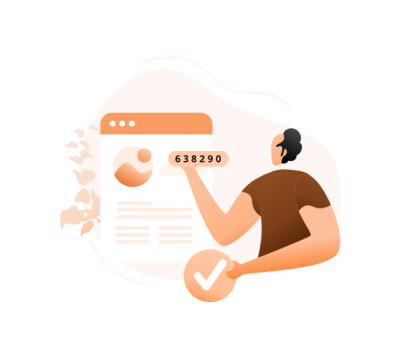
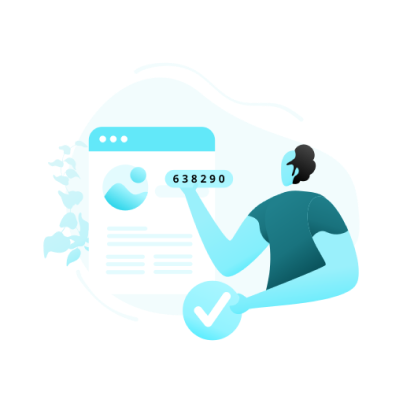
✨ feat: Responsive
Adding new way of responsiveness when visit web on some devices

Changed region(s): [[0.0898, 0.3073, 0.8978, 0.8603]]

diff --git a/src/views/OptionOTP.vue b/src/views/OptionOTP.vue
@@ -59,20 +59,20 @@ export default {
         </div>
         <!-- Right: Login Form -->
         <div class="flex flex-col lg:p-36 md:p-52 sm:20 p-8 w-full lg:w-1/2">
-            <img class="w-[120px] pb-20" src="../assets/Logo_elgeka.png" alt="Logo">
+            <img class="w-[120px] mb-20" src="../assets/LogoElgekaHijau.png" alt="Logo">
             <h1 class="text-2xl font-bold font-[verdana] text-[32px] mb-4">Pilih Metode OTP yang diinginkan</h1>
             <img src="../assets/OTP-security.png" class="max-w-[400px] max-h-[360px]" alt="OTP Ilustration">
             <!-- Email Input -->
             <div class="my-8 flex flex-col gap-4">
                 <p class="font-poppins text-base text-silvergray">OTP akan dikirim melalui Email</p>
                 <button @click="SendOtpEmail()"
-                    class="bg-orange text-white font-semibold rounded-md py-2 px-4 w-full max-w-[470px]">Kirim OTP
+                    class="bg-teal text-white font-semibold rounded-md py-2 px-4 w-full max-w-[470px]">Kirim OTP
                     Lewat Email</button>
 
                 <h1>Atau</h1>
                 <p class="font-poppins text-base text-silvergray">OTP akan dikirim melalui Whatsapp</p>
                 <button @click="SendOtpWhatsapp()"
-                    class="bg-orange text-white font-semibold rounded-md py-2 px-4 w-full max-w-[470px]">Kirim OTP
+                    class="bg-teal text-white font-semibold rounded-md py-2 px-4 w-full max-w-[470px]">Kirim OTP
                     Lewat Whatsapp</button>
             </div>
             <!-- Forgot Password Link -->

diff --git a/src/views/Donasi.vue b/src/views/Donasi.vue
@@ -27,14 +27,14 @@ export default {
 <template>
     <div class="overflow-y-hidden">
         <Navbar />
-        <div v-if="donasielgeka.currentPage === 1" class="flex flex-col justify-center items-center p-40 m-auto min-w-7/12">
-            <p class="font-poppins font-bold text-[40px] text-teal text-center">{{ donasielgeka.data.title }}</p>
+        <div v-if="donasielgeka.currentPage === 1" class="flex flex-col justify-center items-center pt-40 m-auto min-w-7/12">
+            <p class="font-poppins font-bold max-md:text-[30px] text-[40px] text-teal text-center">{{ donasielgeka.data.title }}</p>
             <img class="max-w-[314px] max-h-[283px] border-8 border-teal my-4" :src="gambar_url + donasielgeka.data.image_url" alt="Gambar QR"
                 srcset="">
             <a :href="donasielgeka.data.donate_link"
-                class="font-poppins font-bold text-[40px] text-center hover:underline mb-2" target="_blank">{{
+                class="font-poppins font-bold text-[40px] max-md:text-[30px] text-center hover:underline mb-2" target="_blank">{{
                     donasielgeka.data.donate_link }}</a>
-            <p v-html="donasielgeka.data.content" class="font-poppins font-normal w-[673px] text-[16px] text-[#000000B2]"></p>
+            <p v-html="donasielgeka.data.content" class="font-poppins font-normal max-w-[673px] md:w-[673px] max-md:px-8 max-md:text-[14px] text-[#000000B2]"></p>
 
 
         </div>

diff --git a/src/views/Akunsukses.vue b/src/views/Akunsukses.vue
@@ -16,14 +16,14 @@ export default {
         </div>
         <!-- Right: Login Form -->
         <div class="flex flex-col lg:p-36 md:p-52 sm:20 w-full lg:w-1/2">
-            <img class="w-[120px] bg-teal rounded-md mb-20" src="../assets/logoElgekaPutih1.png" alt="Logo">
+            <img class="w-[120px] mb-20" src="../assets/LogoElgekaHijau.png" alt="Logo">
             <div class="max-w-[470px]">
-                <h1 class="font-bold font-[verdana] text-[32px] mb-4">Akun Berhasil Dibuat!</h1>
-                <p class="font-poppins font-normal text-xl text-silvergray">Silahkan Login untuk melanjutkan</p>
+                <h1 class="font-bold font-[verdana] max-sm:text-center text-[32px] mb-4">Akun Berhasil Dibuat!</h1>
+                <p class="font-poppins font-normal max-sm:text-center text-xl text-silvergray">Silahkan Login untuk melanjutkan</p>
                 <div class="flex flex-col items-center my-20">
-                    <img src="../assets/success-logo.png" alt="success logo">
+                    <img src="../assets/SecurityLogo.png" alt="success logo">
                 </div>
-                <div class="flex flex-col">
+                <div class="flex flex-col items-center">
                     <a href="/login"><button type="submit"
                             class="bg-teal text-white font-semibold rounded-md py-2 px-4 w-full max-w-[470px]">Login
                             Sekarang</button></a>

diff --git a/src/views/SendOtpEmail.vue b/src/views/SendOtpEmail.vue
@@ -8,7 +8,7 @@
         </div>
         <!-- Right: Login Form -->
         <div class="flex flex-col lg:p-36 md:p-52 sm:20 p-8 w-full lg:w-1/2">
-            <img class="w-[120px] pb-20" src="../assets/Logo_elgeka.png" alt="Logo">
+            <img class="w-[120px] pb-20" src="../assets/LogoElgekaHijau.png" alt="Logo">
             <h1 class="text-2xl font-bold font-[verdana] text-[32px] mb-4">Masukan kode Autentikasi</h1>
             <p>Masukan 4 digit angka yang telah dikirimkan ke email</p>
             <form @submit.prevent="activateaccount">
@@ -23,7 +23,7 @@
                 <!-- Login Button -->
                 <div class="flex flex-col">
                     <button type="submit"
-                        class="bg-orange text-white font-semibold rounded-md py-2 px-4 w-full max-w-[470px]">Lanjutkan</button>
+                        class="bg-teal text-white font-semibold rounded-md py-2 px-4 w-full max-w-[470px]">Lanjutkan</button>
                 </div>
             </form>
             <button @click="SendOtpEmail"

diff --git a/src/views/Login.vue b/src/views/Login.vue
@@ -81,7 +81,8 @@ export default {
         </div>
         <!-- Right: Login Form -->
         <div class="flex flex-col lg:p-36 md:p-52 sm:20 p-8 w-full lg:w-1/2">
-            <img class="w-[120px] md:bg-teal rounded-md mb-20" src="../assets/logoElgekaPutih1.png" alt="Logo">
+            <img class="w-[120px] md:hidden rounded-md mb-20" src="../assets/logoElgekaPutih1.png" alt="Logo">
+            <img class="w-[120px] hidden md:block rounded-md mb-20" src="../assets/LogoElgekaHijau.png" alt="Logo">
             <h1 class="text-2xl text-white md:text-black font-bold font-[verdana] text-[32px] mb-4">Selamat Datang !</h1>
             <form @submit.prevent="login">
                 <!-- Email Input -->

diff --git a/src/views/Lupapassword.vue b/src/views/Lupapassword.vue
@@ -49,7 +49,7 @@ export default {
         </div>
         <!-- left: Forget Password Form -->
         <div class="flex flex-col lg:p-36 md:p-52 sm:20 p-8 w-full lg:w-1/2">
-            <img class="w-[120px] bg-teal rounded-md mb-20" src="../assets/logoElgekaPutih1.png" alt="Logo">
+            <img class="w-[120px] mb-20" src="../assets/LogoElgekaHijau.png" alt="Logo">
             <h1 class="text-2xl font-bold font-[verdana] text-[32px] mb-4">Buat Kata Sandi Baru</h1>
             <p class="font-poppins font-normal text-silvergray text-[14px] mb-8">Silahkan masukan email anda untuk menerima
                 kode verifikasi</p>

diff --git a/src/views/Register.vue b/src/views/Register.vue
@@ -140,7 +140,7 @@ export default {
             <img src="../assets/sign.png" alt="Placeholder Image" class="object-cover w-full h-full">
         </div>
         <div class="flex flex-col lg:p-36 md:p-52 sm:20 p-8 w-full lg:w-1/2">
-            <img class="w-[120px] bg-teal mb-20" src="../assets/logoElgekaPutih1.png" alt="Logo">
+            <img class="w-[120px] mb-20" src="../assets/LogoElgekaHijau.png" alt="Logo">
             <h1 class="text-2xl font-bold font-[verdana] text-[32px] mb-4">Let's Create your account</h1>
             <form @submit.prevent="createuser()">
                 <!-- Nama Lengkap Input -->

diff --git a/src/views/SuccessRegister.vue b/src/views/SuccessRegister.vue
@@ -17,7 +17,7 @@ export default {
         </div>
         <!-- Right: Login Form -->
         <div class="flex flex-col lg:p-36 md:p-52 min-[2200px]:items-center sm:20 p-2 w-full lg:w-1/2">
-            <img class="w-[120px] pb-20" src="../assets/Logo_elgeka.png" alt="Logo">
+            <img class="w-[120px] mb-20" src="../assets/LogoElgekaHijau.png" alt="Logo">
             <h1 class="text-2xl font-bold font-[verdana] text-[32px] mb-4">Akun berhasil dibuat!</h1>
             <div class="my-8 flex flex-col gap-4">
                 <div>
